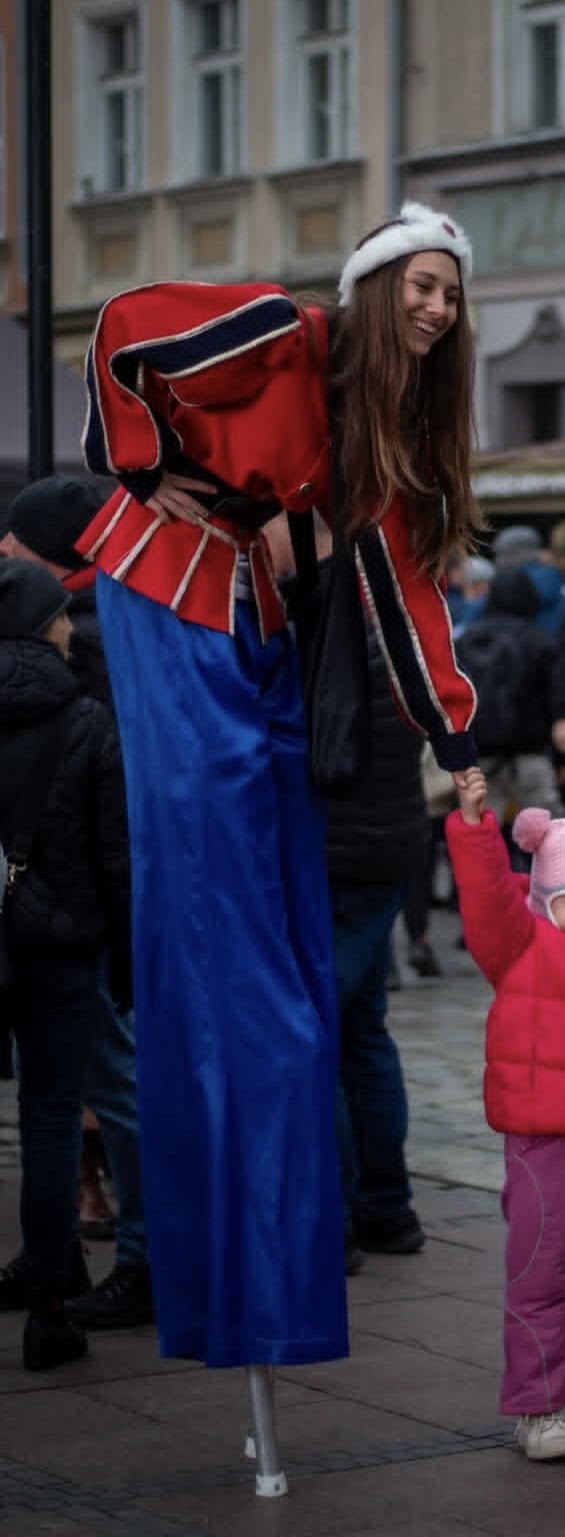
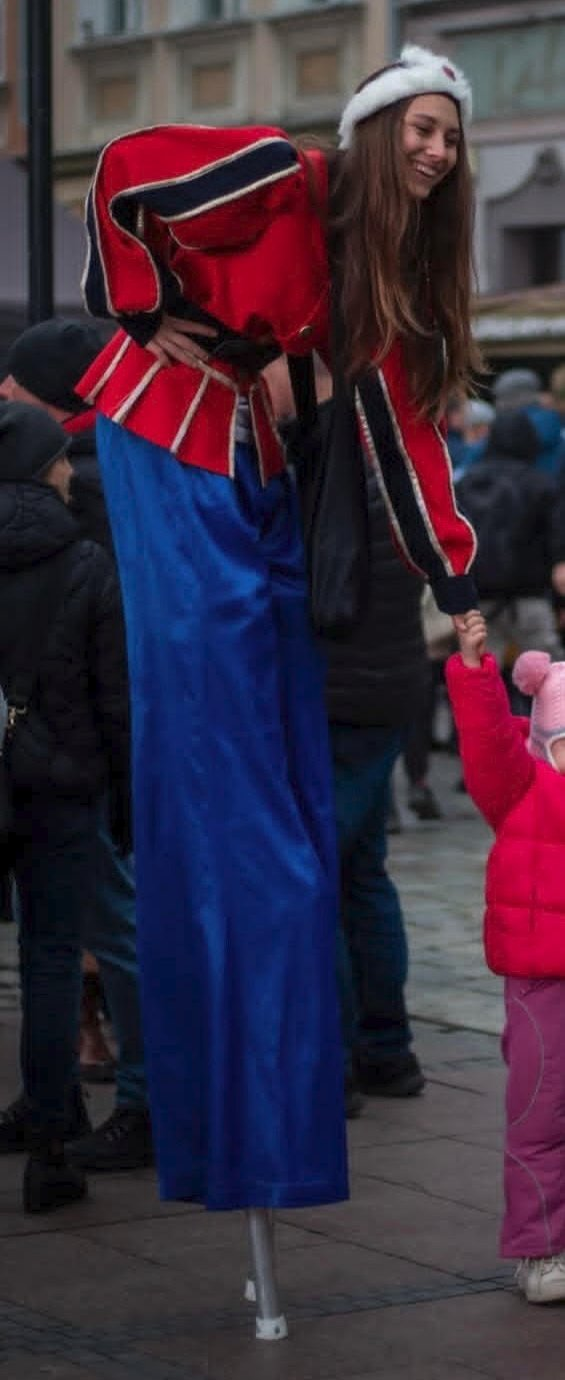
wip

diff --git a/cyrkowo-rozwojowo.html b/cyrkowo-rozwojowo.html
@@ -24,11 +24,13 @@
         <h1 id="offer-page-title" class="page-title page-title--color">Cyrkowo Rozwojowo</h1>
         <p class="lead">
           Twórcze zajęcia muzyczno-teatralno-cyrkowe dla dzieci w wieku przedszkolnym. Proponuję interdyscyplinarne doświadczenie sztuki i cyrku, a nie kolejne warsztaty rytmiki.
+          Pokazowe zajęcia ruszają od września 2026. Zapraszam do kontaktu telefonicznego 515-519-644 lub mailowego kontakt@animacjejagodka.com.
         </p>
         <div class="quick-facts" aria-label="Najważniejsze informacje">
-          <span>Cotygodniowe spotkania</span>
+          <span>250pln za 40 minut zajęć</span>
+          <span>Grupy maksymalnie 15 osobowe</span>
+          <span>Comiesięczne spotkania</span>
           <span>Wiek przedszkolny</span>
-          <span>Pokazowe zajęcia we wrześniu</span>
         </div>
       </div>
     </section>

diff --git a/o-mnie.html b/o-mnie.html
@@ -26,7 +26,7 @@
       <div class="intro-copy">
         <h1 id="contact-title" class="page-title">Jagoda Stasieńko</h1>
         <p class="lead">
-          Jestem ciepłą, życzliwą i otwartą animatorką oraz absolwentką arteterapii. Prowadzę twórcze działania dla dzieci i grup, łącząc ruch, muzykę, teatr i sztukę cyrkową.
+          Jestem ciepłą, życzliwą i otwartą animatorką. Prowadzę zajęcia dla dzieci i grup, łączące ruch, muzykę, teatr i sztukę cyrkową.
         </p>
 
         <div class="contact-links" aria-label="Dane kontaktowe">
